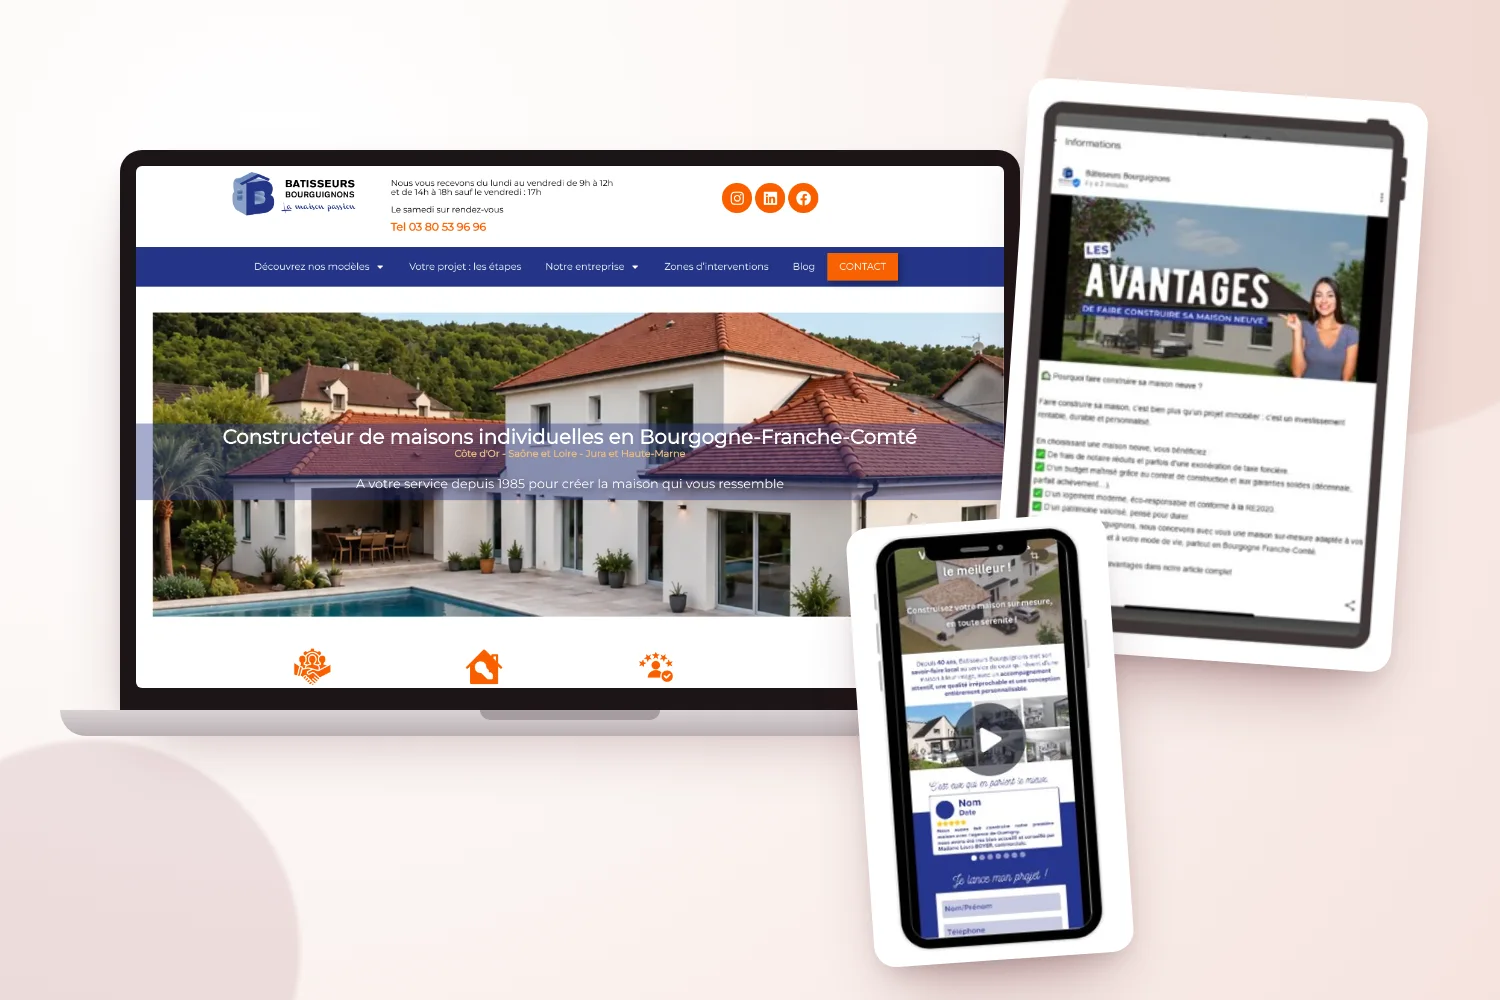
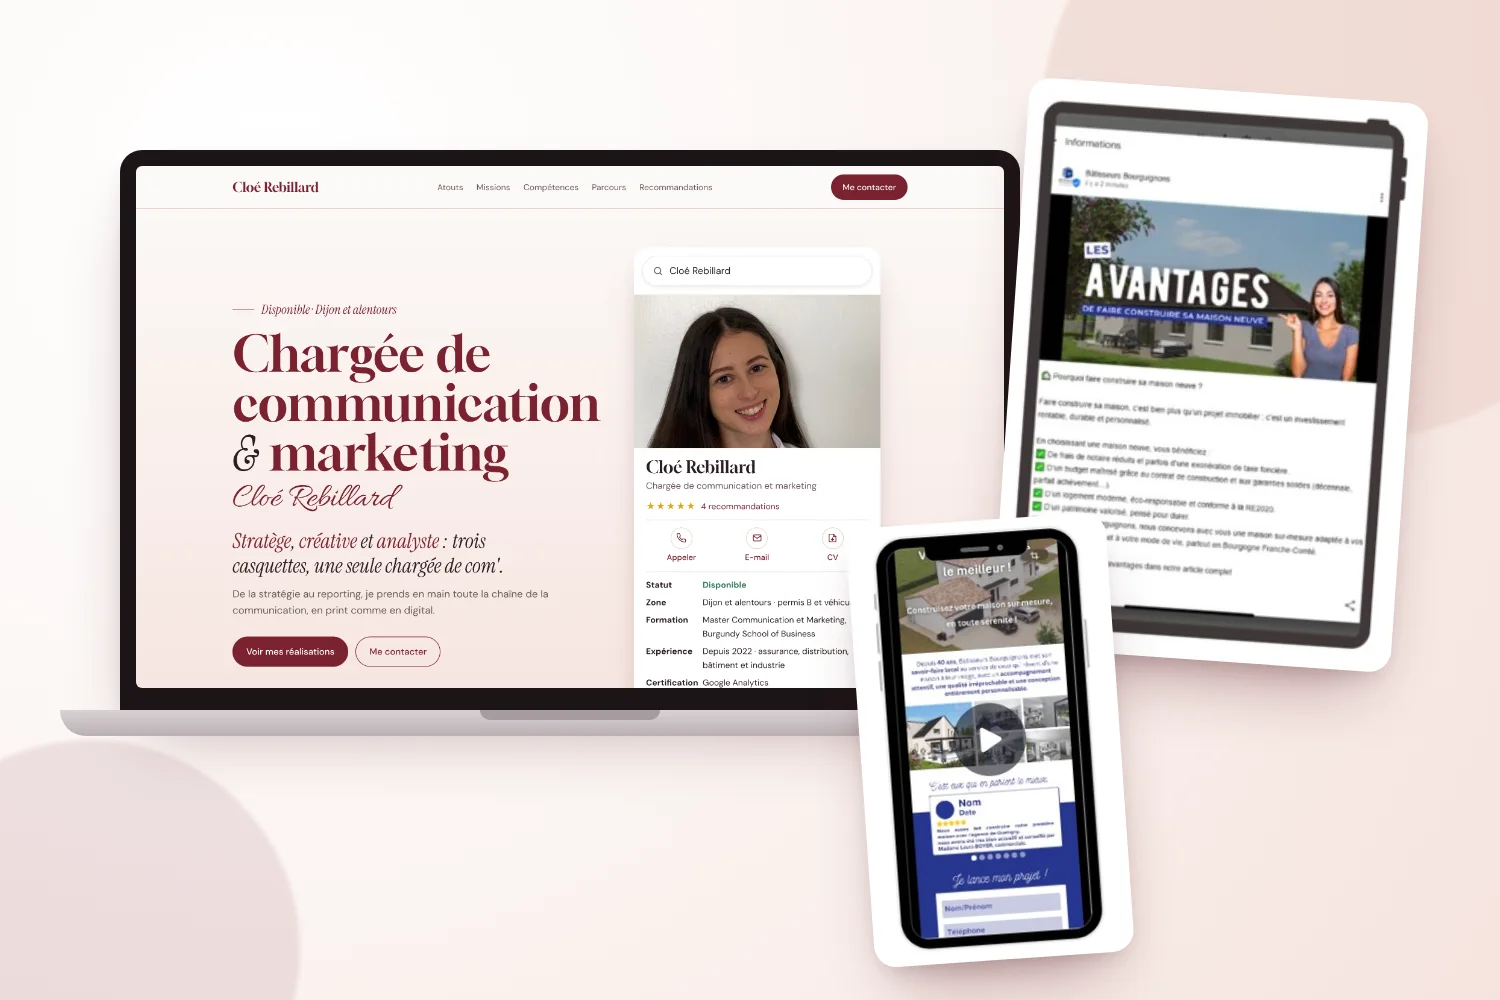
Site web : portfolio à l'écran, participation aux sites Bâtisseurs et NWS ; mockup stratégie allégé
Claude-Session: https://claude.ai/code/session_01ChKnf7MBQ7UGRg99UEPnwq

Changed region(s): [[0.092, 0.155, 0.6747, 0.713], [0.4293, 0.155, 0.6133, 0.217]]

diff --git a/index.html b/index.html
@@ -807,7 +807,7 @@ blockquote footer b{display:block;color:var(--encre);font-weight:500;font-size:1
   <section class="bloc" id="realisations">
     <div class="wrap">
       <div class="entete-bloc"><div><p class="surtitre">Sur le terrain</p><h2>Mes missions</h2></div><p class="chapo" style="margin:0">Chaque case regroupe un type de mission. Cliquez pour voir le détail par entreprise.</p></div>
-      <div class="mosaique"><button class="projet" type="button" data-projet="social"><span class="plus-ico" aria-hidden="true">+</span><div class="visuel img"><picture><source media="(max-width:600px)" srcset="img/missions/mission-reseaux-sociaux-m.webp"><img src="img/missions/mission-reseaux-sociaux.webp" alt="Grille Instagram de Forme &amp; Force, story et jeu-concours du Marché aux Affaires, publication LinkedIn de NWS Laser" loading="lazy"></picture></div><div class="bas"><div><span class="type-mission">Réseaux sociaux</span><h3>Contenus et animation de communauté</h3><p class="realis">Templates Instagram Forme &amp; Force · Story « Jours fidélité » et jeu-concours Marché aux Affaires · Posts Bâtisseurs Bourguignons et NWS Laser</p></div></div></button><button class="projet" type="button" data-projet="campagnes"><span class="plus-ico" aria-hidden="true">+</span><div class="visuel img"><picture><source media="(max-width:600px)" srcset="img/missions/mission-campagnes-m.webp"><img src="img/missions/mission-campagnes.webp" alt="Encart presse « Voyage à gagner » et flyer « Votre maison sur-mesure » des Bâtisseurs Bourguignons, flyers de l&#x27;agence AXA" loading="lazy"></picture></div><div class="bas"><div><span class="type-mission">Campagnes publicitaires</span><h3>Pub digitale et print</h3><p class="realis">Encart presse et flyer Bâtisseurs Bourguignons · Flyers AXA · Campagnes Google Ads et Meta Ads</p></div></div></button><button class="projet" type="button" data-projet="site"><span class="plus-ico" aria-hidden="true">+</span><div class="visuel img"><picture><source media="(max-width:600px)" srcset="img/missions/mission-site-web-m.webp"><img src="img/missions/mission-site-web.webp" alt="Site des Bâtisseurs Bourguignons, landing page et publication sur la fiche Google" loading="lazy"></picture></div><div class="bas"><div><span class="type-mission">Site web et SEO</span><h3>Un site conçu de A à Z</h3><p class="realis">Site des Bâtisseurs Bourguignons, créé de A à Z · Landing page · Posts fiche Google · Site d&#x27;une auto-entrepreneuse</p></div></div></button><button class="projet" type="button" data-projet="evenementiel"><span class="plus-ico" aria-hidden="true">+</span><div class="visuel img"><picture><source media="(max-width:600px)" srcset="img/missions/mission-evenementiel-m.webp"><img src="img/missions/mission-evenementiel.webp" alt="Visiteurs et stand des Bâtisseurs Bourguignons, dossier du team building et affiche du salon Micronora" loading="lazy"></picture></div><div class="bas"><div><span class="type-mission">Événementiel et partenariats</span><h3>Salons et événements réseau</h3><p class="realis">Salons de l&#x27;habitat Bâtisseurs Bourguignons · Team building Marché aux Affaires · Salon Micronora NWS Laser</p></div></div></button><button class="projet" type="button" data-projet="videos"><span class="plus-ico" aria-hidden="true">+</span><div class="visuel img"><picture><source media="(max-width:600px)" srcset="img/missions/mission-videos-m.webp"><img src="img/missions/mission-videos.webp" alt="Vidéo de présentation du modèle de maison Axinite des Bâtisseurs Bourguignons" loading="lazy"></picture></div><div class="bas"><div><span class="type-mission">Vidéos</span><h3>Vidéos de présentation</h3><p class="realis">Vidéo du modèle Axinite et vidéos des réalisations Bâtisseurs Bourguignons</p></div></div></button><button class="projet" type="button" data-projet="strategie"><span class="plus-ico" aria-hidden="true">+</span><div class="visuel img"><picture><source media="(max-width:600px)" srcset="img/missions/mission-strategie-m.webp"><img src="img/missions/mission-strategie.webp" alt="Plan de communication 2026, charte graphique de Cani Positive et tableaux de statistiques" loading="lazy"></picture></div><div class="bas"><div><span class="type-mission">Stratégie et reporting</span><h3>Plans de com&#x27;, identité et résultats</h3><p class="realis">Plan de communication 2026 · Charte graphique Cani Positive · Reportings Facebook, Meta Ads et jeu-concours</p></div></div></button></div>
+      <div class="mosaique"><button class="projet" type="button" data-projet="social"><span class="plus-ico" aria-hidden="true">+</span><div class="visuel img"><picture><source media="(max-width:600px)" srcset="img/missions/mission-reseaux-sociaux-m.webp"><img src="img/missions/mission-reseaux-sociaux.webp" alt="Grille Instagram de Forme &amp; Force, story et jeu-concours du Marché aux Affaires, publication LinkedIn de NWS Laser" loading="lazy"></picture></div><div class="bas"><div><span class="type-mission">Réseaux sociaux</span><h3>Contenus et animation de communauté</h3><p class="realis">Templates Instagram Forme &amp; Force · Story « Jours fidélité » et jeu-concours Marché aux Affaires · Posts Bâtisseurs Bourguignons et NWS Laser</p></div></div></button><button class="projet" type="button" data-projet="campagnes"><span class="plus-ico" aria-hidden="true">+</span><div class="visuel img"><picture><source media="(max-width:600px)" srcset="img/missions/mission-campagnes-m.webp"><img src="img/missions/mission-campagnes.webp" alt="Encart presse « Voyage à gagner » et flyer « Votre maison sur-mesure » des Bâtisseurs Bourguignons, flyers de l&#x27;agence AXA" loading="lazy"></picture></div><div class="bas"><div><span class="type-mission">Campagnes publicitaires</span><h3>Pub digitale et print</h3><p class="realis">Encart presse et flyer Bâtisseurs Bourguignons · Flyers AXA · Campagnes Google Ads et Meta Ads</p></div></div></button><button class="projet" type="button" data-projet="site"><span class="plus-ico" aria-hidden="true">+</span><div class="visuel img"><picture><source media="(max-width:600px)" srcset="img/missions/mission-site-web-m.webp"><img src="img/missions/mission-site-web.webp" alt="Portfolio de Cloé Rebillard sur ordinateur, landing page et publication sur la fiche Google des Bâtisseurs Bourguignons" loading="lazy"></picture></div><div class="bas"><div><span class="type-mission">Site web et SEO</span><h3>Sites, landing page et fiche Google</h3><p class="realis">Mon portfolio, conçu de A à Z · Landing page et posts fiche Google Bâtisseurs Bourguignons · Participation aux sites Bâtisseurs Bourguignons et NWS Laser</p></div></div></button><button class="projet" type="button" data-projet="evenementiel"><span class="plus-ico" aria-hidden="true">+</span><div class="visuel img"><picture><source media="(max-width:600px)" srcset="img/missions/mission-evenementiel-m.webp"><img src="img/missions/mission-evenementiel.webp" alt="Visiteurs et stand des Bâtisseurs Bourguignons, dossier du team building et affiche du salon Micronora" loading="lazy"></picture></div><div class="bas"><div><span class="type-mission">Événementiel et partenariats</span><h3>Salons et événements réseau</h3><p class="realis">Salons de l&#x27;habitat Bâtisseurs Bourguignons · Team building Marché aux Affaires · Salon Micronora NWS Laser</p></div></div></button><button class="projet" type="button" data-projet="videos"><span class="plus-ico" aria-hidden="true">+</span><div class="visuel img"><picture><source media="(max-width:600px)" srcset="img/missions/mission-videos-m.webp"><img src="img/missions/mission-videos.webp" alt="Vidéo de présentation du modèle de maison Axinite des Bâtisseurs Bourguignons" loading="lazy"></picture></div><div class="bas"><div><span class="type-mission">Vidéos</span><h3>Vidéos de présentation</h3><p class="realis">Vidéo du modèle Axinite et vidéos des réalisations Bâtisseurs Bourguignons</p></div></div></button><button class="projet" type="button" data-projet="strategie"><span class="plus-ico" aria-hidden="true">+</span><div class="visuel img"><picture><source media="(max-width:600px)" srcset="img/missions/mission-strategie-m.webp"><img src="img/missions/mission-strategie.webp" alt="Plan de communication 2026, charte graphique de Cani Positive et tableaux de statistiques" loading="lazy"></picture></div><div class="bas"><div><span class="type-mission">Stratégie et reporting</span><h3>Plans de com&#x27;, identité et résultats</h3><p class="realis">Plan de communication 2026 · Charte graphique Cani Positive · Reportings Facebook, Meta Ads et jeu-concours</p></div></div></button></div>
     </div>
   </section>
 
@@ -952,7 +952,7 @@ Bien cordialement,</textarea>
 
 <script>
 (function(){
-  var P={"social": {"client": "Réseaux sociaux", "titre": "Contenus et animation de communauté", "img": "img/missions/mission-reseaux-sociaux.webp", "imgm": "img/missions/mission-reseaux-sociaux-m.webp", "alt": "Grille Instagram de Forme & Force, story et jeu-concours du Marché aux Affaires, publication LinkedIn de NWS Laser", "mission": "Installer une prise de parole régulière qui fait grandir l'audience.", "actions": ["Forme & Force : stratégie, piliers de contenu et templates Instagram", "Marché aux Affaires : stories promotionnelles et jeu-concours", "Bâtisseurs Bourguignons : publications Instagram et Facebook", "NWS Laser : publications LinkedIn", "Agence AXA : 2 à 3 publications Facebook par semaine"], "chiffres": [["4 000+", "inscrits au jeu-concours"], ["+136 %", "de visibilité Facebook pour AXA"]], "tags": ["Instagram", "Facebook", "LinkedIn"]}, "campagnes": {"client": "Campagnes publicitaires", "titre": "Pub digitale et print", "img": "img/missions/mission-campagnes.webp", "imgm": "img/missions/mission-campagnes-m.webp", "alt": "Encart presse « Voyage à gagner » et flyer « Votre maison sur-mesure » des Bâtisseurs Bourguignons, flyers de l'agence AXA", "mission": "Toucher les bons prospects, en ligne comme sur papier, avec un budget maîtrisé.", "actions": ["Campagnes Google Ads (SEA) : mots-clés, annonces et suivi des performances", "Bâtisseurs Bourguignons : campagnes Meta Ads, ciblage et suivi du coût par clic", "Bâtisseurs Bourguignons : encart presse « Voyage à gagner » et flyer « Votre maison sur-mesure »", "Agence AXA : flyers produits"], "chiffres": [["0,18 €", "de coût par clic sur Meta Ads"]], "tags": ["Google Ads", "Meta Ads", "Print", "Presse"]}, "site": {"client": "Site web et SEO", "titre": "Un site conçu de A à Z", "img": "img/missions/mission-site-web.webp", "imgm": "img/missions/mission-site-web-m.webp", "alt": "Site des Bâtisseurs Bourguignons, landing page et publication sur la fiche Google", "mission": "J'ai conçu le site des Bâtisseurs Bourguignons de A à Z pour en faire un vrai outil de prospection, visible sur Google et en local.", "actions": ["Bâtisseurs Bourguignons : site conçu de A à Z (arborescence, contenus, design, SEO et référencement local), landing page et publications sur la fiche Google", "NWS Laser : site web, SEO et fiche Google", "Une auto-entrepreneuse : conception de son site internet"], "chiffres": [["≈ 20", "leads par mois via le site des Bâtisseurs"]], "tags": ["WordPress", "SEO", "Fiche Google"]}, "evenementiel": {"client": "Événementiel et partenariats", "titre": "Salons et événements réseau", "img": "img/missions/mission-evenementiel.webp", "imgm": "img/missions/mission-evenementiel-m.webp", "alt": "Visiteurs et stand des Bâtisseurs Bourguignons, dossier du team building et affiche du salon Micronora", "mission": "Créer des rendez-vous qui fédèrent et qui rapportent des contacts.", "actions": ["Marché aux Affaires : team building de 2 jours pour 300 franchisés", "Bâtisseurs Bourguignons : stands et salons de l'habitat", "NWS Laser : salons professionnels Micronora et SIANE", "Relations presse et partenariats"], "chiffres": [["300", "franchisés réunis"]], "tags": ["Événementiel", "Salons", "Partenariats"]}, "videos": {"client": "Vidéos", "titre": "Vidéos de présentation", "img": "img/missions/mission-videos.webp", "imgm": "img/missions/mission-videos-m.webp", "alt": "Vidéo de présentation du modèle de maison Axinite des Bâtisseurs Bourguignons", "mission": "Montrer les réalisations en mouvement pour donner envie de se projeter.", "actions": ["Bâtisseurs Bourguignons : vidéos de présentation des modèles de maisons", "Montage de formats courts pour les réseaux sociaux et le site"], "chiffres": [], "tags": ["Vidéo", "Montage", "CapCut"]}, "strategie": {"client": "Stratégie et reporting", "titre": "Plans de com', identité et résultats", "img": "img/missions/mission-strategie.webp", "imgm": "img/missions/mission-strategie-m.webp", "alt": "Plan de communication 2026, charte graphique de Cani Positive et tableaux de statistiques", "mission": "Définir où aller, donner une image cohérente et mesurer ce que la communication rapporte.", "actions": ["Plan de communication annuel : bilan, objectifs, budget et calendrier", "Cani Positive et Forme & Force : positionnement et identité au lancement", "NWS Laser : audit, cibles et positionnement", "Reportings : visibilité Facebook AXA, campagnes Meta Ads, bilan du jeu-concours"], "chiffres": [], "tags": ["Stratégie", "Identité", "KPI", "Reporting"]}};
+  var P={"social": {"client": "Réseaux sociaux", "titre": "Contenus et animation de communauté", "img": "img/missions/mission-reseaux-sociaux.webp", "imgm": "img/missions/mission-reseaux-sociaux-m.webp", "alt": "Grille Instagram de Forme & Force, story et jeu-concours du Marché aux Affaires, publication LinkedIn de NWS Laser", "mission": "Installer une prise de parole régulière qui fait grandir l'audience.", "actions": ["Forme & Force : stratégie, piliers de contenu et templates Instagram", "Marché aux Affaires : stories promotionnelles et jeu-concours", "Bâtisseurs Bourguignons : publications Instagram et Facebook", "NWS Laser : publications LinkedIn", "Agence AXA : 2 à 3 publications Facebook par semaine"], "chiffres": [["4 000+", "inscrits au jeu-concours"], ["+136 %", "de visibilité Facebook pour AXA"]], "tags": ["Instagram", "Facebook", "LinkedIn"]}, "campagnes": {"client": "Campagnes publicitaires", "titre": "Pub digitale et print", "img": "img/missions/mission-campagnes.webp", "imgm": "img/missions/mission-campagnes-m.webp", "alt": "Encart presse « Voyage à gagner » et flyer « Votre maison sur-mesure » des Bâtisseurs Bourguignons, flyers de l'agence AXA", "mission": "Toucher les bons prospects, en ligne comme sur papier, avec un budget maîtrisé.", "actions": ["Campagnes Google Ads (SEA) : mots-clés, annonces et suivi des performances", "Bâtisseurs Bourguignons : campagnes Meta Ads, ciblage et suivi du coût par clic", "Bâtisseurs Bourguignons : encart presse « Voyage à gagner » et flyer « Votre maison sur-mesure »", "Agence AXA : flyers produits"], "chiffres": [["0,18 €", "de coût par clic sur Meta Ads"]], "tags": ["Google Ads", "Meta Ads", "Print", "Presse"]}, "site": {"client": "Site web et SEO", "titre": "Sites, landing page et fiche Google", "img": "img/missions/mission-site-web.webp", "imgm": "img/missions/mission-site-web-m.webp", "alt": "Portfolio de Cloé Rebillard sur ordinateur, landing page et publication sur la fiche Google des Bâtisseurs Bourguignons", "mission": "Faire du site un vrai outil de prospection, visible sur Google et en local. Ce portfolio, je l'ai conçu de A à Z.", "actions": ["Mon portfolio : conception de A à Z (structure, textes, design et mise en ligne)", "Bâtisseurs Bourguignons : participation à la conception du site, landing page, articles SEO et publications sur la fiche Google", "NWS Laser : participation à la refonte du site, articles SEO et fiche Google", "Une auto-entrepreneuse : conception de son site internet"], "chiffres": [["≈ 20", "leads par mois via le site des Bâtisseurs"]], "tags": ["WordPress", "SEO", "Fiche Google"]}, "evenementiel": {"client": "Événementiel et partenariats", "titre": "Salons et événements réseau", "img": "img/missions/mission-evenementiel.webp", "imgm": "img/missions/mission-evenementiel-m.webp", "alt": "Visiteurs et stand des Bâtisseurs Bourguignons, dossier du team building et affiche du salon Micronora", "mission": "Créer des rendez-vous qui fédèrent et qui rapportent des contacts.", "actions": ["Marché aux Affaires : team building de 2 jours pour 300 franchisés", "Bâtisseurs Bourguignons : stands et salons de l'habitat", "NWS Laser : salons professionnels Micronora et SIANE", "Relations presse et partenariats"], "chiffres": [["300", "franchisés réunis"]], "tags": ["Événementiel", "Salons", "Partenariats"]}, "videos": {"client": "Vidéos", "titre": "Vidéos de présentation", "img": "img/missions/mission-videos.webp", "imgm": "img/missions/mission-videos-m.webp", "alt": "Vidéo de présentation du modèle de maison Axinite des Bâtisseurs Bourguignons", "mission": "Montrer les réalisations en mouvement pour donner envie de se projeter.", "actions": ["Bâtisseurs Bourguignons : vidéos de présentation des modèles de maisons", "Montage de formats courts pour les réseaux sociaux et le site"], "chiffres": [], "tags": ["Vidéo", "Montage", "CapCut"]}, "strategie": {"client": "Stratégie et reporting", "titre": "Plans de com', identité et résultats", "img": "img/missions/mission-strategie.webp", "imgm": "img/missions/mission-strategie-m.webp", "alt": "Plan de communication 2026, charte graphique de Cani Positive et tableaux de statistiques", "mission": "Définir où aller, donner une image cohérente et mesurer ce que la communication rapporte.", "actions": ["Plan de communication annuel : bilan, objectifs, budget et calendrier", "Cani Positive et Forme & Force : positionnement et identité au lancement", "NWS Laser : audit, cibles et positionnement", "Reportings : visibilité Facebook AXA, campagnes Meta Ads, bilan du jeu-concours"], "chiffres": [], "tags": ["Stratégie", "Identité", "KPI", "Reporting"]}};
   var d=document.getElementById('fenetre');
   function el(id){return document.getElementById(id)}
   function txt(t,tag){var e=document.createElement(tag);e.textContent=t;return e}
